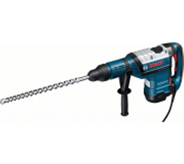
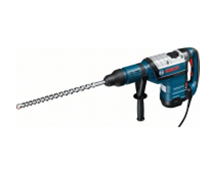
alot of commits

Changed region(s): [[0.0, 0.2439, 1.0, 0.7622]]

diff --git a/catalog.html b/catalog.html
@@ -249,7 +249,7 @@
                                 <a href="#" class="to-bookmarks-button">В закладки</a>
                             </div> 
                             <div class="popular-image">
-                                <img src="img/hummer-drill-3.png" alt="Перфоратор 3" width="184" height="163">
+                                <img src="img/hummer-drill.png" alt="Перфоратор 3" width="218" height="182">
                             </div>
                             <h3 class="product-name">Перфоратор <span>Bosch BFG 3000</span></h3>
                             <span class="product-old-price">22500 P.</span>
@@ -261,7 +261,7 @@
                                 <a href="#" class="to-bookmarks-button">В закладки</a>
                             </div> 
                             <div class="popular-image">
-                                <img src="img/hummer-drill-2.png" alt="Перфоратор 2" width="144" height="128">
+                                <img src="img/hummer-drill-2.png" alt="Перфоратор 2" width="218" height="182">
                             </div>
                             <h3 class="product-name">Перфоратор <span>Bosch BFG 6000</span></h3>
                             <span class="product-old-price">30500 P.</span>
@@ -273,7 +273,7 @@
                                 <a href="#" class="to-bookmarks-button">В закладки</a>
                             </div> 
                             <div class="popular-image">
-                                <img src="img/hummer-drill.png" alt="Перфоратор 1" width="126" height="112">
+                                <img src="img/hummer-drill.png" alt="Перфоратор 1" width="218" height="182">
                             </div>
                             <h3 class="product-name product-one-price">Перфоратор <span>Bosch BFG 2000</span></h3>
                             <a href="#" class="product-price">12500 P.</a>
@@ -284,7 +284,7 @@
                                 <a href="#" class="to-bookmarks-button">В закладки</a>
                             </div> 
                             <div class="popular-image">
-                                <img src="img/hummer-drill-3.png" alt="Перфоратор 3" width="184" height="163">
+                                <img src="img/hummer-drill.png" alt="Перфоратор 3" width="218" height="182">
                             </div>
                             <h3 class="product-name">Перфоратор <span>Bosch BFG 3000</span></h3>
                             <span class="product-old-price">22500 P.</span>
@@ -296,7 +296,7 @@
                                 <a href="#" class="to-bookmarks-button">В закладки</a>
                             </div> 
                             <div class="popular-image">
-                                <img src="img/hummer-drill-2.png" alt="Перфоратор 2" width="144" height="128">
+                                <img src="img/hummer-drill-2.png" alt="Перфоратор 2" width="218" height="182">
                             </div>
                             <h3 class="product-name">Перфоратор <span>Bosch BFG 6000</span></h3>
                             <span class="product-old-price">30500 P.</span>
@@ -308,7 +308,7 @@
                                 <a href="#" class="to-bookmarks-button">В закладки</a>
                             </div> 
                             <div class="popular-image">
-                                <img src="img/hummer-drill.png" alt="Перфоратор 1" width="126" height="112">
+                                <img src="img/hummer-drill.png" alt="Перфоратор 1" width="218" height="182">
                             </div>
                             <h3 class="product-name product-one-price">Перфоратор <span>Bosch BFG 2000</span></h3>
                             <a href="#" class="product-price">12500 P.</a>
@@ -319,7 +319,7 @@
                                 <a href="#" class="to-bookmarks-button">В закладки</a>
                             </div> 
                             <div class="popular-image">
-                                <img src="img/hummer-drill-3.png" alt="Перфоратор 3" width="184" height="163">
+                                <img src="img/hummer-drill.png" alt="Перфоратор 3" width="218" height="182">
                             </div>
                             <h3 class="product-name">Перфоратор <span>Bosch BFG 3000</span></h3>
                             <span class="product-old-price">22500 P.</span>
@@ -331,7 +331,7 @@
                                 <a href="#" class="to-bookmarks-button">В закладки</a>
                             </div> 
                             <div class="popular-image">
-                                <img src="img/hummer-drill-2.png" alt="Перфоратор 2" width="144" height="128">
+                                <img src="img/hummer-drill-2.png" alt="Перфоратор 2" width="218" height="182">
                             </div>
                             <h3 class="product-name">Перфоратор <span>Bosch BFG 6000</span></h3>
                             <span class="product-old-price">30500 P.</span>
@@ -343,7 +343,7 @@
                                 <a href="#" class="to-bookmarks-button">В закладки</a>
                             </div> 
                             <div class="popular-image">
-                                <img src="img/hummer-drill.png" alt="Перфоратор 1" width="126" height="112">
+                                <img src="img/hummer-drill.png" alt="Перфоратор 1" width="218" height="182">
                             </div>
                             <h3 class="product-name product-one-price">Перфоратор <span>Bosch BFG 2000</span></h3>
                             <a href="#" class="product-price">12500 P.</a>

diff --git a/index.html b/index.html
@@ -185,7 +185,7 @@
                         <a href="#" class="to-bookmarks-button">В закладки</a>
                     </div> 
                     <div class="popular-image">
-                        <img src="img/hummer-drill-3.png" alt="Перфоратор 3" width="184" height="163">
+                        <img src="img/hummer-drill-3.png" alt="Перфоратор 3" width="218" height="182">
                     </div>
                     <h3 class="product-name">Перфоратор <span>Bosch BFG 9000</span></h3>
                     <span class="product-old-price">22500 P.</span>
@@ -197,7 +197,7 @@
                         <a href="#" class="to-bookmarks-button">В закладки</a>
                     </div>
                     <div class="popular-image">
-                        <img src="img/hummer-drill.png" alt="Перфоратор 1" width="126" height="112">
+                        <img src="img/hummer-drill.png" alt="Перфоратор 1" width="218" height="182">
                     </div>
                     <h3 class="product-name">Перфоратор <span>Bosch BFG 3000</span></h3>
                     <span class="product-old-price">32500 P.</span>
@@ -209,7 +209,7 @@
                         <a href="#" class="to-bookmarks-button">В закладки</a>
                     </div> 
                     <div class="popular-image">
-                        <img src="img/hummer-drill-2.png" alt="Перфоратор 2" width="144" height="128">
+                        <img src="img/hummer-drill-2.png" alt="Перфоратор 2" width="218" height="182">
                     </div>
                     <h3 class="product-name">Перфоратор <span>Bosch BFG 6000</span></h3>
                     <span class="product-old-price">30500 P.</span>
@@ -221,7 +221,7 @@
                         <a href="#" class="to-bookmarks-button">В закладки</a>
                     </div> 
                     <div class="popular-image">
-                        <img src="img/hummer-drill.png" alt="Перфоратор 1" width="126" height="112">
+                        <img src="img/hummer-drill.png" alt="Перфоратор 1" width="218" height="182">
                     </div>
                     <h3 class="product-name product-one-price">Перфоратор <span>Bosch BFG 2000</span></h3>
                     <a href="#" class="product-price">12500 P.</a>

diff --git a/css/style.css b/css/style.css
@@ -780,7 +780,7 @@ header {
     padding-top: 10px;
     padding-bottom: 10px;
 
-    width: 95px;
+    width: 105px;
 
     box-sizing: border-box;
 }
@@ -1345,7 +1345,7 @@ header {
     border: 1px solid #eaeaea;
 
     padding-bottom: 20px;
-    padding-top: 43px;
+    /* padding-top: 45px; */
     padding-left: 30px;
     padding-right: 30px;
     margin-bottom: 10px;
@@ -1375,6 +1375,8 @@ header {
 
     width: 60px;
     height: 59px;
+
+    z-index: 1;
 }
 
 .popular-product {
@@ -1416,18 +1418,33 @@ header {
 }
 
 .popular-products-buttons {
+    margin-top: 45px;
+    margin-bottom: 68px;
+
     display: flex;
     flex-wrap: wrap;
     justify-content: center;
 }
 
+.popular-product-block {
+    position: relative;
+}
+
 .popular-image {
+    position: absolute;
+    top: 1px;
+    left: 0;
+
     height: 180px;
 
     display: flex;
     justify-content: center;
     align-items: center;
 } 
+
+.popular-product-block:hover .popular-image {
+    display: none;
+}
 
 .buy-button {
     position: relative;
